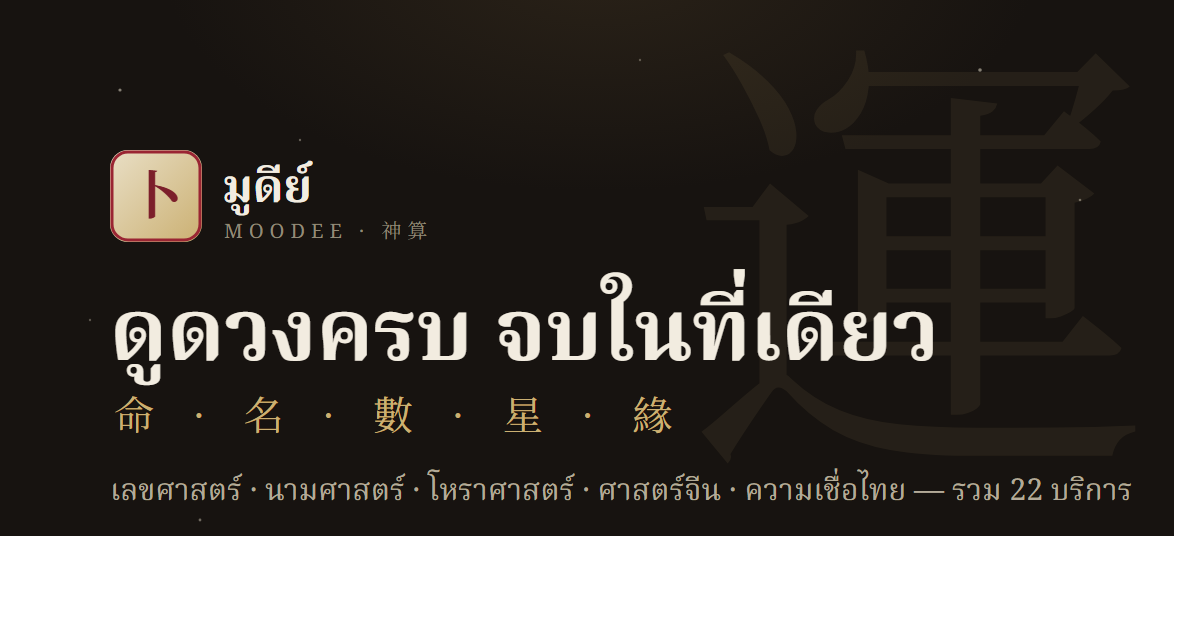
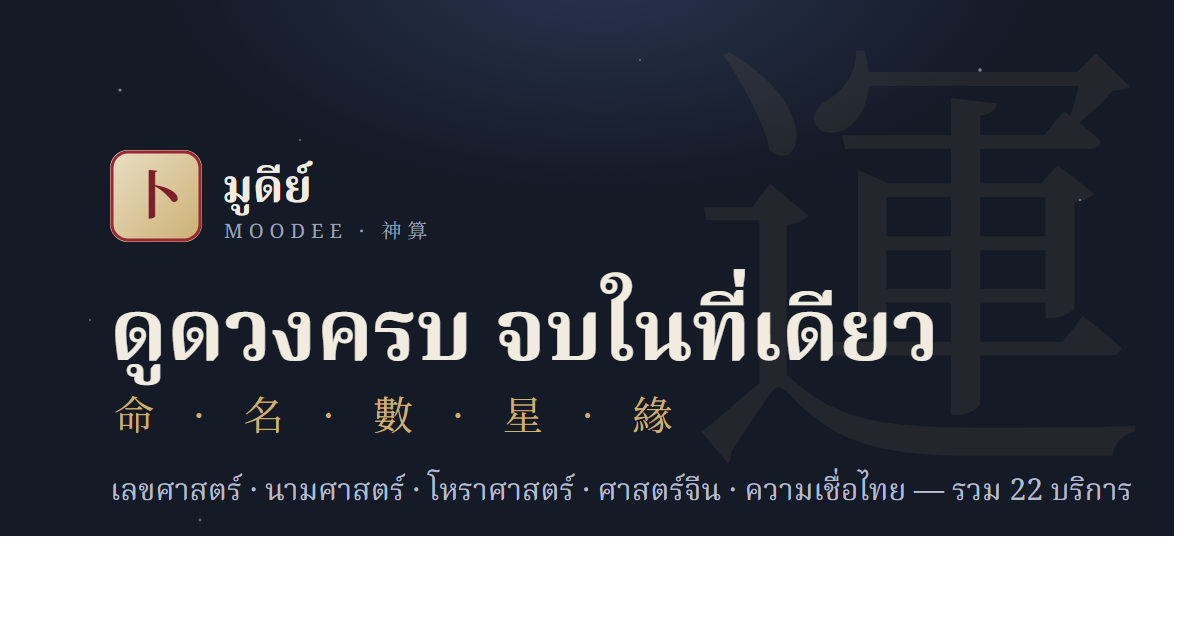
[U] - dark theme to Apple Midnight navy (was warm near-black)
- tokens.css dark block: --bg #171310 -> #191f2b (Apple Midnight navy-near-black), cool surfaces/border/text; keep garnet/gold/amethyst accents + gold brand tile
- index.html theme-color (dark) -> #191f2b
- og-default.svg/png: glow -> midnight navy, cool muted text

diff --git a/src/shared/theme/tokens.css b/src/shared/theme/tokens.css
@@ -100,31 +100,31 @@
   --font-body: "Anuphan", system-ui, sans-serif;
 }
 
-/* ---------- Midnight (ดำอุ่น ไม่มีน้ำเงิน) + garnet เรืองแสง ---------- */
+/* ---------- Midnight (Apple finish: navy เกือบดำ) + garnet/gold เรืองแสง ---------- */
 :root[data-theme="dark"] {
   color-scheme: dark;
 
-  --bg: #171310;
-  --bg-grad-top: #241c14;
-  --aurora-1: rgba(214, 178, 92, 0.20);  /* gold glint */
+  --bg: #191f2b;
+  --bg-grad-top: #232b3b;
+  --aurora-1: rgba(214, 178, 92, 0.18);  /* gold glint */
   --aurora-2: rgba(176, 52, 64, 0.24);   /* garnet */
-  --aurora-3: rgba(150, 110, 60, 0.16);  /* amber (อุ่น ไม่มีน้ำเงิน) */
-  --star-dot: rgba(248, 238, 210, 0.6);  /* ดาวทองอุ่น */
+  --aurora-3: rgba(96, 116, 156, 0.12);  /* midnight sheen (เย็นจาง) */
+  --star-dot: rgba(232, 238, 250, 0.6);  /* ดาวขาวเย็น */
 
-  --surface: rgba(46, 38, 28, 0.55);
-  --surface-solid: #241d15;
-  --surface-inset: rgba(255, 245, 225, 0.05);
-  --surface-sink: rgba(0, 0, 0, 0.24);
+  --surface: rgba(40, 49, 66, 0.55);
+  --surface-solid: #222a3a;
+  --surface-inset: rgba(255, 255, 255, 0.05);
+  --surface-sink: rgba(0, 0, 0, 0.26);
 
-  --border-gold: rgba(220, 200, 150, 0.20); /* ขอบแชมเปญอุ่น */
-  --gold-line: rgba(220, 200, 150, 0.20);
+  --border-gold: rgba(190, 202, 226, 0.20); /* ขอบอลูมิเนียมเย็น (midnight edge) */
+  --gold-line: rgba(190, 202, 226, 0.20);
 
   --primary: #ec8a93;
   --primary-bright: #f2a6ac;
   --primary-shadow: #7a1f2b;
   --on-primary: #2a1418;   /* ตัวอักษรบน garnet ตัน */
-  --on-grad: #ecd79a;      /* glyph ทองบนตรา (brand tile มืด) */
-  --grad-brand: linear-gradient(100deg, #2a2218 0%, #38301f 100%); /* ตัว tile อุ่นเหนือ bg นิดเดียว */
+  --on-grad: #ecd79a;      /* glyph ทองบนตรา (brand tile) */
+  --grad-brand: linear-gradient(100deg, #2a2218 0%, #38301f 100%); /* tile ทองอุ่น ตัด bg เย็น */
   --gold-hi: #ecd79a;
   --brand-rim: #c23a4a;    /* กรอบแดง */
   --brand-glow: #b88a3a;
@@ -138,23 +138,23 @@
   --gold-soft: rgba(220, 192, 137, 0.16);
   --ember-soft: rgba(239, 154, 134, 0.16);
 
-  --ink: #f2ece0;
-  --ink-soft: #ddd5c6;
-  --ink-faint: #b3aa98;
-  --text-strong: #f2ece0;
-  --text: #ddd5c6;
-  --text-muted: #b3aa98;
-  --text-dim: #8f8775;
-  --text-faint: #736c5d;
+  --ink: #eef1f7;
+  --ink-soft: #d3d8e4;
+  --ink-faint: #a7adbd;
+  --text-strong: #eef1f7;
+  --text: #d3d8e4;
+  --text-muted: #a7adbd;
+  --text-dim: #828aa0;
+  --text-faint: #69708a;
 
-  --paper: #241d15;
-  --panel: #2c2418;
+  --paper: #222a3a;
+  --panel: #2a3346;
 
-  --dark-bg: #171310;
-  --dark-panel: rgba(46, 38, 28, 0.55);
-  --dark-text: #f2ece0;
-  --dark-soft: #cfc7b5;
-  --dark-faint: #928a78;
+  --dark-bg: #191f2b;
+  --dark-panel: rgba(40, 49, 66, 0.55);
+  --dark-text: #eef1f7;
+  --dark-soft: #cdd3e0;
+  --dark-faint: #8d94a8;
 
   --shadow: 0 18px 44px -20px rgba(0, 0, 0, 0.62);
   --shadow-sm: 0 8px 24px -16px rgba(0, 0, 0, 0.55);

diff --git a/index.html b/index.html
@@ -5,7 +5,7 @@
     <meta name="viewport" content="width=device-width, initial-scale=1.0" />
     <meta name="color-scheme" content="light dark" />
     <meta name="theme-color" content="#efe8d6" media="(prefers-color-scheme: light)" />
-    <meta name="theme-color" content="#171310" media="(prefers-color-scheme: dark)" />
+    <meta name="theme-color" content="#191f2b" media="(prefers-color-scheme: dark)" />
     <link rel="icon" type="image/svg+xml" href="./favicon.svg" />
 
     <!-- คืนธีมก่อน paint แรก กัน flash (localStorage > ค่าตามระบบ > light) -->